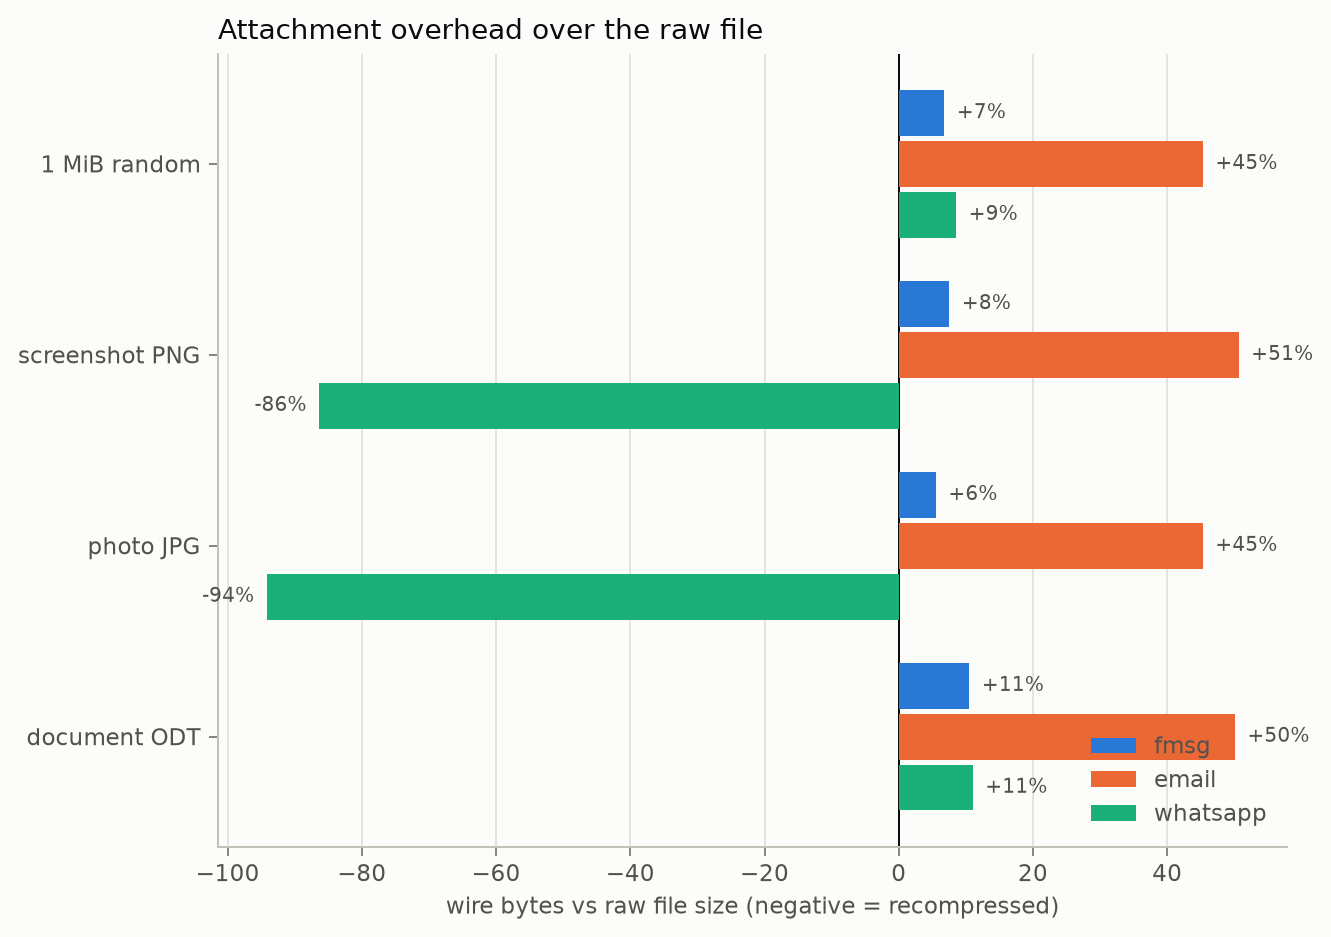
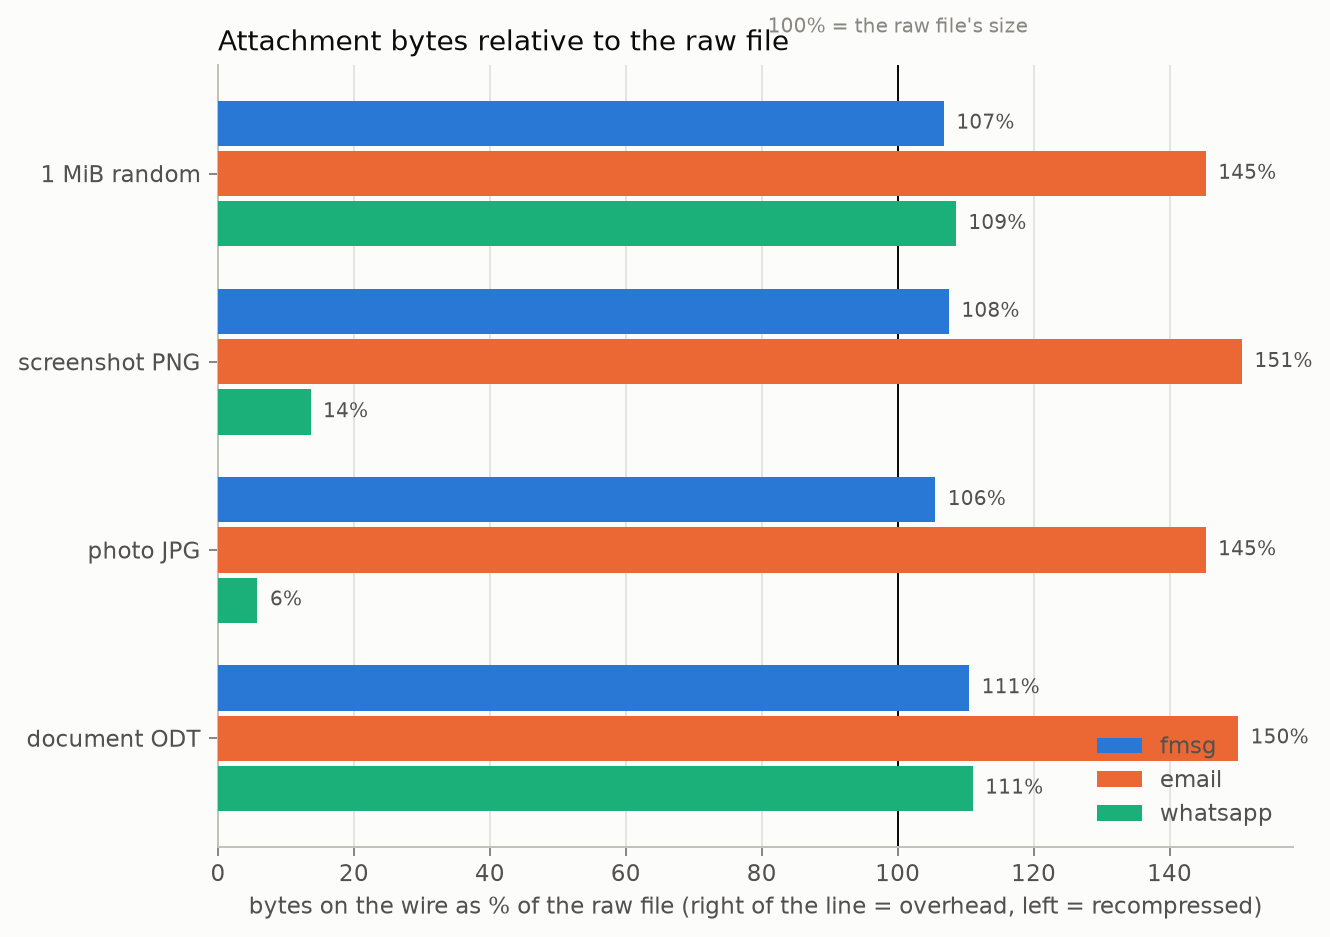
Gallery: attachment chart as % of raw file (100% reference line)
The overhead-delta framing read as "negative attachment size" for
WhatsApp's recompressed images; percent-of-raw with a 100% line says
the same thing unambiguously.

diff --git a/analysis/gallery.py b/analysis/gallery.py
@@ -85,24 +85,25 @@ def fig_attach_overhead(data, systems):
                 continue
             raw = ATTACH_RAW[sc][1]
             ys.append(j + (i - (n_sys - 1) / 2) * bar_h)
-            xs.append(100.0 * (t - raw) / raw)
+            xs.append(100.0 * t / raw)
         ax.barh(ys, xs, height=bar_h * 0.9, color=SYSTEM_COLOR[sys_name],
                 label=sys_name, zorder=3)
         for y, x in zip(ys, xs):
-            ax.annotate(f"{x:+.0f}%", (x, y),
-                        xytext=(5 if x >= 0 else -5, 0),
+            ax.annotate(f"{x:.0f}%", (x, y), xytext=(5, 0),
                         textcoords="offset points", va="center",
-                        ha="left" if x >= 0 else "right",
                         fontsize=8, color=SECONDARY)
 
-    ax.axvline(0, color=INK, linewidth=0.8, zorder=2)
+    ax.axvline(100, color=INK, linewidth=0.8, zorder=2)
+    ax.annotate("100% = the raw file's size", (100, -0.75), fontsize=8,
+                color=MUTED, ha="center", annotation_clip=False)
     ax.set_yticks(range(len(scenarios)))
     ax.set_yticklabels([ATTACH_RAW[sc][0] for sc in scenarios])
     ax.invert_yaxis()
-    ax.set_xlabel("wire bytes vs raw file size (negative = recompressed)",
+    ax.set_xlabel("bytes on the wire as % of the raw file "
+                  "(right of the line = overhead, left = recompressed)",
                   fontsize=9, color=SECONDARY)
     ax.grid(axis="x", color=GRID, linewidth=0.7, zorder=0)
-    ax.set_title("Attachment overhead over the raw file", fontsize=11,
+    ax.set_title("Attachment bytes relative to the raw file", fontsize=11,
                  color=INK, loc="left")
     ax.legend(frameon=False, fontsize=9, labelcolor=SECONDARY,
               loc="lower right")
